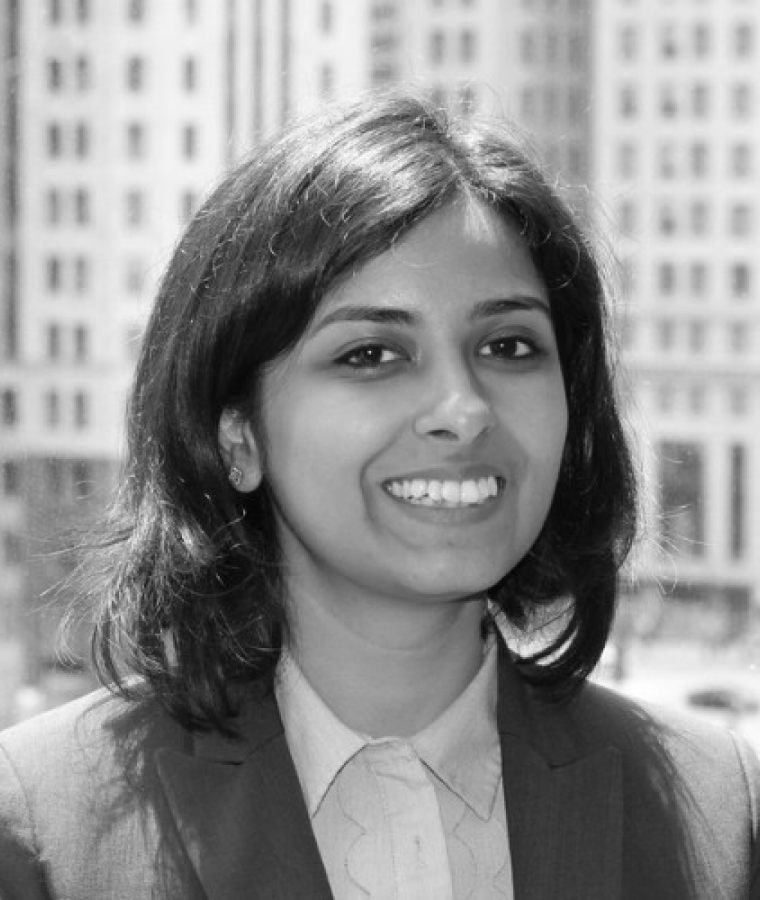
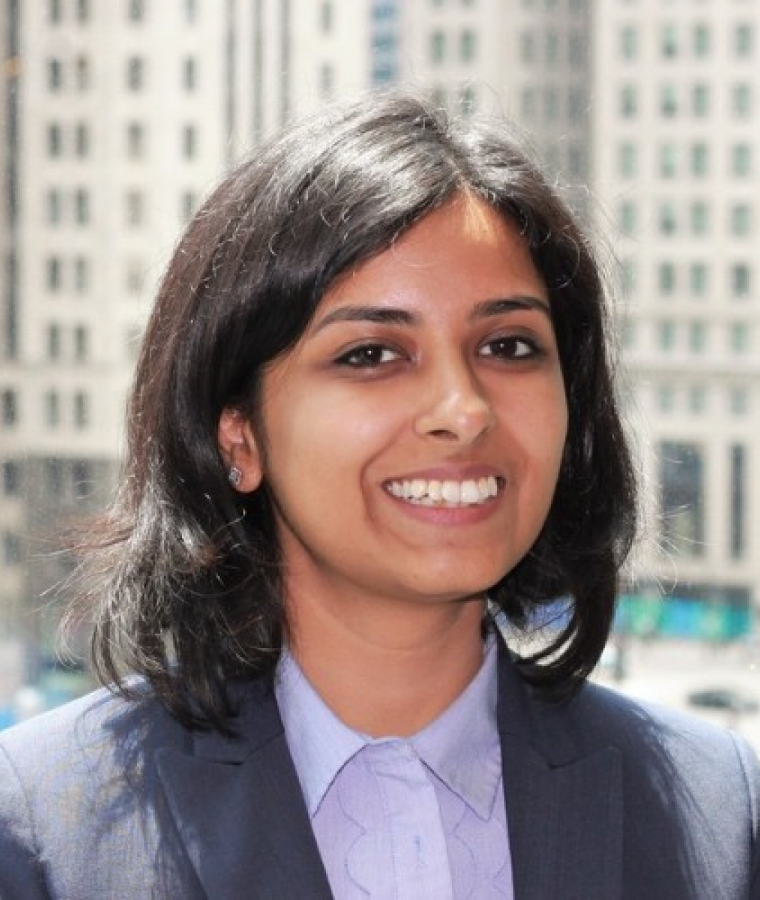
update

diff --git a/src/Partials/Sidebar.jsx b/src/Partials/Sidebar.jsx
@@ -12,7 +12,7 @@ export default function Sidebar() {
   const showSidebar = () => setSidebar(!sidebar);
 
   const SidebarData = [
-    { title: "z21 Investment Thesis", path: "/thesis", cName: "nav-text" },
+    { title: "Investment Thesis", path: "/thesis", cName: "nav-text" },
     { title: "Community", path: "/community", cName: "nav-text" },
     { title: "Portfolio", path: "/portfolio", cName: "nav-text" },
     { title: "About us", path: "/aboutus", cName: "nav-text" },    
@@ -32,10 +32,10 @@ export default function Sidebar() {
                 <img src={Logo} alt=""  className=" h-8 w-28 md:h-11 md:w-44" />
               </Link>
             </div>
-            <div className="contact-nav bg-[#DE5126] px-4 py-2 md:px-8 md:py-4 rounded-full block">
+            <div className="contact-nav bg-[rgba(239,239,241,0.16)] px-4 py-2 md:px-8 md:py-4 rounded-full block">
               <Link
                 to="/contact"
-                className="text-white text-sm md:text-xl font-semibold flex justify-center items-center">
+                className="text-white text-sm md:text-lg font-semibold flex justify-center items-center">
                 Contact us <GoArrowUpRight />
               </Link>
             </div>

diff --git a/src/Component/AboutUs/OurTeam.jsx b/src/Component/AboutUs/OurTeam.jsx
@@ -58,9 +58,9 @@ export default function OurTeam() {
                 {
                 ourTeam.map((item, index) => {
                     return (
-                        <div key={index} className="">
-                            <img src={item.image} alt="" className=' w-96' />
-                            <h4 className='text-xl md:text-3xl font-bold font-arimo mt-6 border-b-[1px] border-[#CED0D4] pb-4'>{item.name}</h4>
+                        <div key={index} className="group">
+                            <img src={item.image} alt="" className=' mix-blend-luminosity group-hover:mix-blend-normal w-96' />
+                            <h4 className='text-xl md:text-3xl font-bold font-arimo mt-6 border-b-[1px] border-[#CED0D4] pb-4 group-hover:text-[#DE5126]'>{item.name}</h4>
                             <p className='text-base md:text-xl font-normal text-[#60646C] mt-4'>{item.designation}</p>
                         </div>
                     )

diff --git a/src/Component/Z21Thesis/Hero.jsx b/src/Component/Z21Thesis/Hero.jsx
@@ -4,8 +4,8 @@ import Z21ThesisHero from "./images/Z21ThesisHero.svg";
 export default function Hero() {
   return (
     <div
-      className="relative h-[350px] md:h-screen w-screen bg-no-repeat bg-cover bg-center"
-      style={{ backgroundImage: `url(${Z21ThesisHero})`, marginTop: "-80px" }}>
+      className="relative h-[350px] md:h-screen w-screen bg-black bg-no-repeat bg-cover bg-center"
+      style={{ backgroundImage: `url(${Z21ThesisHero})`, marginTop: "-60px" }}>
       <div className="absolute inset-0 "></div>
       <div className="container">
         <div className="absolute bottom-0 right-0 pb-8 pr-8 md:pb-16 md:pr-16 lg:pb-24 lg:pr-2">
